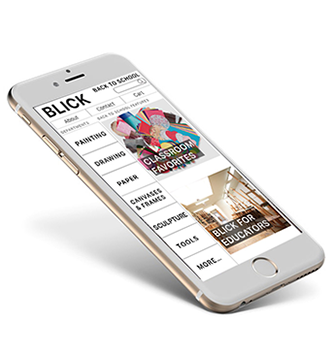
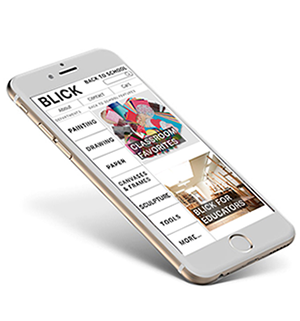
Blick Material and Resp images hacks homepage

diff --git a/projects/blick.html b/projects/blick.html
@@ -13,37 +13,45 @@
       </div>
       <div class="project content1-hash">
         <h1>BLICK BACK TO SCHOOL</h1>
-        <h4>Web App Redesign • Timeframe: 2 weeks • Role: Co-Designer</h4>
-        <p>HashTravel aims to solve the broader questions of travel: to what country or city should I go, and why?</br> It's not about flights and hotel rooms; it's about a community of people who love travel telling stories and giving advice to each other.</p></br>
-        <img src="../images/apple-devices_cr_sm_sh.jpg" />
+        <h4>Ecommerce Web App Design • Timeframe: 2 weeks • Role: Designer</h4>
+        <div class="textbox">
+           <p>
+            Blick Art Supplies has become the largest fine arts retailer in the nation, after growing for years and acquiring some competitors. In this project the goal was to add some new digital flair to the Blick brand. I designed a back-to-school site for Blick to feature 100 of its popular back-to-school products.
+          </p>
+        <p>
+          This was to be a responsive website, with a design that functioned in desktop, tablet, and mobile. It was also a challenge of information architecture, requiring a sorting and choosing of products.
+        </p>
+        <p>
+          To be clear: this project was not requested by Blick and has no real connection to Blick. Rather, it's an excercise in the challenges of making a responsive e-commerce website for a company with thousands of products in its inventory.
+        </p>
+        </div>
+        </br>
+        </br>
+        <img src="../images/Blick_iphone-sm.jpg" />
       </div>
       <div class="project content2-hash">
-        <h2>Results</h3>
-        <p>The HashTravel App is a young product with huge potential, so helping to create new designs for them was exciting. The task was to create new landing pages, user onboarding that communicated the purpose of HashTravel, and new ways to use maps, which were to be the center of the experience.
+        <h2>Architecture of Information</h3>
+        <p class="textbox">As the largest fine art retailer, Blick carries thousands of highly specialized items. Categorizing this inventory is a challenge of information architecture. What is the hierarchy? What are the groups? The answers are not obvious. So I did a different kind of user testing. Information architecture questions meant that 'card sorting' was a tool that would be useful. We made one hundred cards with names and pictures of items and asked people to sort them into categories that made sense for them.
         </p>
         </br>
-        <img src="../images/iphonehome.png" />
-        <img src="../images/iphone_Story.png" />
-        <img src="../images/iphonecityattractionsdc.png" />
+        </br>
+        <img src="../images/blick_card_sort.jpg" />
+        <p><span>A user card sorting 100 items from the Blick inventory.</span></p>
+        <p class="textbox">Card sorting was a challenge that some people seemed to enjoy while others found it infuriating. For many a lot of the artist materials were difficult to understand. There were things like acrylic mediums, gesso, guache, vellum, fixative spray, wire mesh, and plaster of paris. After several users had sorted in 'open card sorts', making up their own categories, I took the time to consolidate their categories, coming up with master categories. Then I had  uers do 'closed card sorts' in which they fit the same cards into those categories as well as they could. This was a way to validate the categories.</p>
+        </br>
+        <h2 class="callout">We can't assume how our users see the world.</h2>
+        <p>In the end I came up with the following sitemap which portrays the architecture of information that I settled on after my user research.</p>
         </br>
         </br>
-        <img src="../images/IMAC_layers.png" />
+        <img src="../images/sitemap_blick.png" />
       </div>
       <div class="project content3-hash">
-        <img src="../images/airplanetakeoff.png" />
-        <h2>Understanding the Business</h2>
+        <img src="../images/blick_first_design.jpg" />
+        <h2>Designing for Back to School</h2>
         <p>
-          How special was HashTravel? That was the first question that we needed to answer. In a travel tech field that is crowded and fast-growing, what was it offering and how could we help differentiate it through our work?
+          The design process of mobile-first, although for my main user type the desktop size was more important. But I feel it’s important to follow mobile-first design principles, and I started with a basic structure that looked like the below image.
         </p>
-        <p>
-          There are travel companies that started out answering the big questions about where someone might want to go. Most of those have drifted more towards e-ticketing for airline and booking hotel rooms. A review of major online travel sites confirmed what the HashTravel founder had suspected: that a crowdsourced community dedicated to broad discussion about travel and places would be unique on the web.
-        </p>
-        <p>
-          There are hundreds of ways that different sites present maps online, and they can be really fun. With new mapping technologies and libraries lots of graphic and exciting map experiences have become possible. How could HashTravel take advantage of this and create map-centered pages that would keep users exploring?
-        </p>
-        <p>
-          On HashTravel's side what is wanted is a vibrant community of users that produces interesting content. But what do the users really want or need?
-        </p>
+
       </div>
       <div class="project content4-hash">
         <img src="../images/usersBig.png" />

diff --git a/index.html b/index.html
@@ -27,43 +27,71 @@
         </div>
       </div>
 
-      <div class="content3">
+<!--       <div class="content3">
         <div class="hash">
           <a href="projects/hashtravel.html">
             <div><h3>HashTravel,</br> a social community of travelers – a case study in communicating a mission.</h3></div>
             <img src="images/HashHomepagePersp_sm.png" width="250" height="445" alt="HashTravel UX Redesign" />
           </a>
         </div>
-      </div>
+      </div> -->
+    <div class="content3">
+      <section id="hashtravel_section">
+        <section id="hashtravel_inner"></section>
+        <a href="projects/hashtravel.html">
+          <div id="hashh3"><h3>HashTravel,</br> a social community</br>of travelers –</br> a case study in</br> communicating</br> a mission.</h3></div>
+          <div class="hashtravel_picdiv"></div>
+        </a>
+      </section>
+    </div>
 
-      <div class="content4">
 
-      </div>
+    <div class="content4">
+    </div>
 
-      <div class="content5">
+    <div class="content5">
+    </div>
 
-      </div>
-
-      <div class="content6">
+<!--       <div class="content6">
          <div class="infoshop">
             <a href="projects/infoshop.html">
               <div><h3>Infoshop –</br> Where does our money go?</h3></div></br>
               <img src="images/sitemap_image_sm.png" width="300" height="300" alt="Infoshop - New Consumer Empowerment Project" />
             </a>
         </div>
-      </div>
+      </div> -->
+
+    <div class="content6">
+      <section id="infoshop_section">
+        <section id="infoshop_inner"></section>
+        <a href="projects/infoshop.html">
+          <div><h3>Infoshop –</br> Where does our money go?</h3></div></br>
+          <div class="infoshop_picdiv"></div>
+        </a>
+      </section>
+    </div>
 
       <div class="content7">
       </div>
 
-      <div class="content8">
+<!--       <div class="content8">
          <div class="blick">
             <a href="projects/blick.html">
               <div><h3>Blick Back to School</br> Pop-Up Shop</h3></div></br>
-              <img src="images/Blick_iphone_sm.png" width="330" height="353" alt="Blick Art Supplies UX Redesign" />
+              <img src="images/Blick_iphone_sm.png" width="300" height="321" alt="Blick Art Supplies UX Redesign" />
             </a>
         </div>
       </div>
+ -->
+  <div class="content8">
+    <section id="blick_section">
+      <section id="blick_inner"></section>
+      <a href="projects/blick.html">
+        <div><h3>Blick Back to School</br> Pop-Up Shop</h3></div></br>
+        <div class="blick_picdiv"></div>
+      </a>
+    </section>
+  </div>
 
       <div class="bottom stripe">
         <a href="about.html"><p>ABOUT</p></a>

diff --git a/style.css b/style.css
@@ -3,10 +3,12 @@ body {
 }
 
 .grid {
-  height: 100vh;
   display: grid;
+  width: 100vw;
+  height: 100vh;
   grid-template-rows: 110px 650px 650px 100px;
-  grid-template-columns: .25fr .25fr .25fr .25fr;
+  /*grid-template-columns: .25fr .25fr .25fr .25fr;*/
+  grid-template-columns: repeat(4, 25vw);
 }
 
 .grid-project {
@@ -96,7 +98,7 @@ a:visited, a:link {
 }
 
 .content8 {
-  background-color: #fff;
+  /*background-color: #fff;*/
   grid-column-start: 4;
   grid-column-end: span 1;
 }
@@ -107,7 +109,7 @@ a:visited, a:link {
 
 #titlespan {
   float: right;
-  padding-right: 10px;
+  padding-right: 30px;
   color: darkorange;
   font-size: .8em;
 }
@@ -231,11 +233,96 @@ a:visited, a:link {
 }
 
 .textbox {
-  width: 50%;
+  width: 55%;
   margin: auto;
 }
 
 .bottom.stripe {
   text-align: center;
   font-size: 1.4em;
+}
+
+.callout {
+  color: darkorange;
+}
+
+/*For Responsive Front Page Images within Grid*/
+#blick_section {
+  display: inline-block;
+    position: relative;
+    width: 85%;
+    left: 8%;
+    margin-top: 65px;
+
+}
+
+#blick_inner {
+  padding-top: 100%;
+}
+
+.blick_picdiv {
+  background-image: url("images/Blick_iphone_sm.png");
+  background-size: 95%;
+  background-repeat: no-repeat;
+  position: absolute;
+  top: 0;
+  bottom: 0;
+  left: 0;
+  right: 0;
+  z-index: 11;
+}
+
+#infoshop_section {
+  display: inline-block;
+    position: relative;
+    width: 85%;
+    left: 8%;
+    margin-top: 65px;
+
+}
+
+#infoshop_inner {
+  padding-top: 100%;
+}
+
+.infoshop_picdiv {
+  background-image: url("images/sitemap_image_sm.png");
+  background-size: 95%;
+  background-repeat: no-repeat;
+  position: absolute;
+  top: 0;
+  bottom: 0;
+  left: 0;
+  right: 0;
+  z-index: 11;
+}
+
+#hashtravel_section {
+  display: inline-block;
+    position: relative;
+    width: 100%;
+    left: 18%;
+    margin-top: 55px;
+
+}
+
+#hashtravel_inner {
+  padding-top: 100%;
+}
+
+.hashtravel_picdiv {
+  background-image: url("images/HashHomepagePersp_sm.png");
+  background-size: 65%;
+  background-repeat: no-repeat;
+  position: absolute;
+  padding: 20px 0 20px 0;
+  top: 0;
+  bottom: 0;
+  left: 0;
+  right: 0;
+  z-index: 11;
+}
+
+#hashh3 {
+  margin-top: 60px;
 }

diff --git a/projects/hashtravel.html b/projects/hashtravel.html
@@ -19,7 +19,7 @@
       </div>
       <div class="project content2-hash">
         <h2>Results</h3>
-        <p>The HashTravel App is a young product with huge potential, so helping to create new designs for them was exciting. The task was to create new landing pages, user onboarding that communicated the purpose of HashTravel, and new ways to use maps, which were to be the center of the experience.
+        <p class="textbox">The HashTravel App is a young product with huge potential, so helping to create new designs for them was exciting. The task was to create new landing pages, user onboarding that communicated the purpose of HashTravel, and new ways to use maps, which were to be the center of the experience.
         </p>
         </br>
         <img src="../images/iphonehome.png" />

diff --git a/mobile.css b/mobile.css
@@ -8,7 +8,7 @@
 .grid-project {
   height: 100vh;
   display: grid;
-  grid-template-rows: 120px 1350px 2100px 1560px 1020px 1650px 2150px 2250px 960px 110px;
+  grid-template-rows: 120px 1350px 2100px 1700px 1020px 1650px 2150px 2250px 960px 110px;
   grid-template-columns: 1fr;
 }
 
@@ -231,7 +231,7 @@ a:visited, a:link {
 }
 
 .textbox {
-  width: 50%;
+  width: 75%;
   margin: auto;
 }
 
